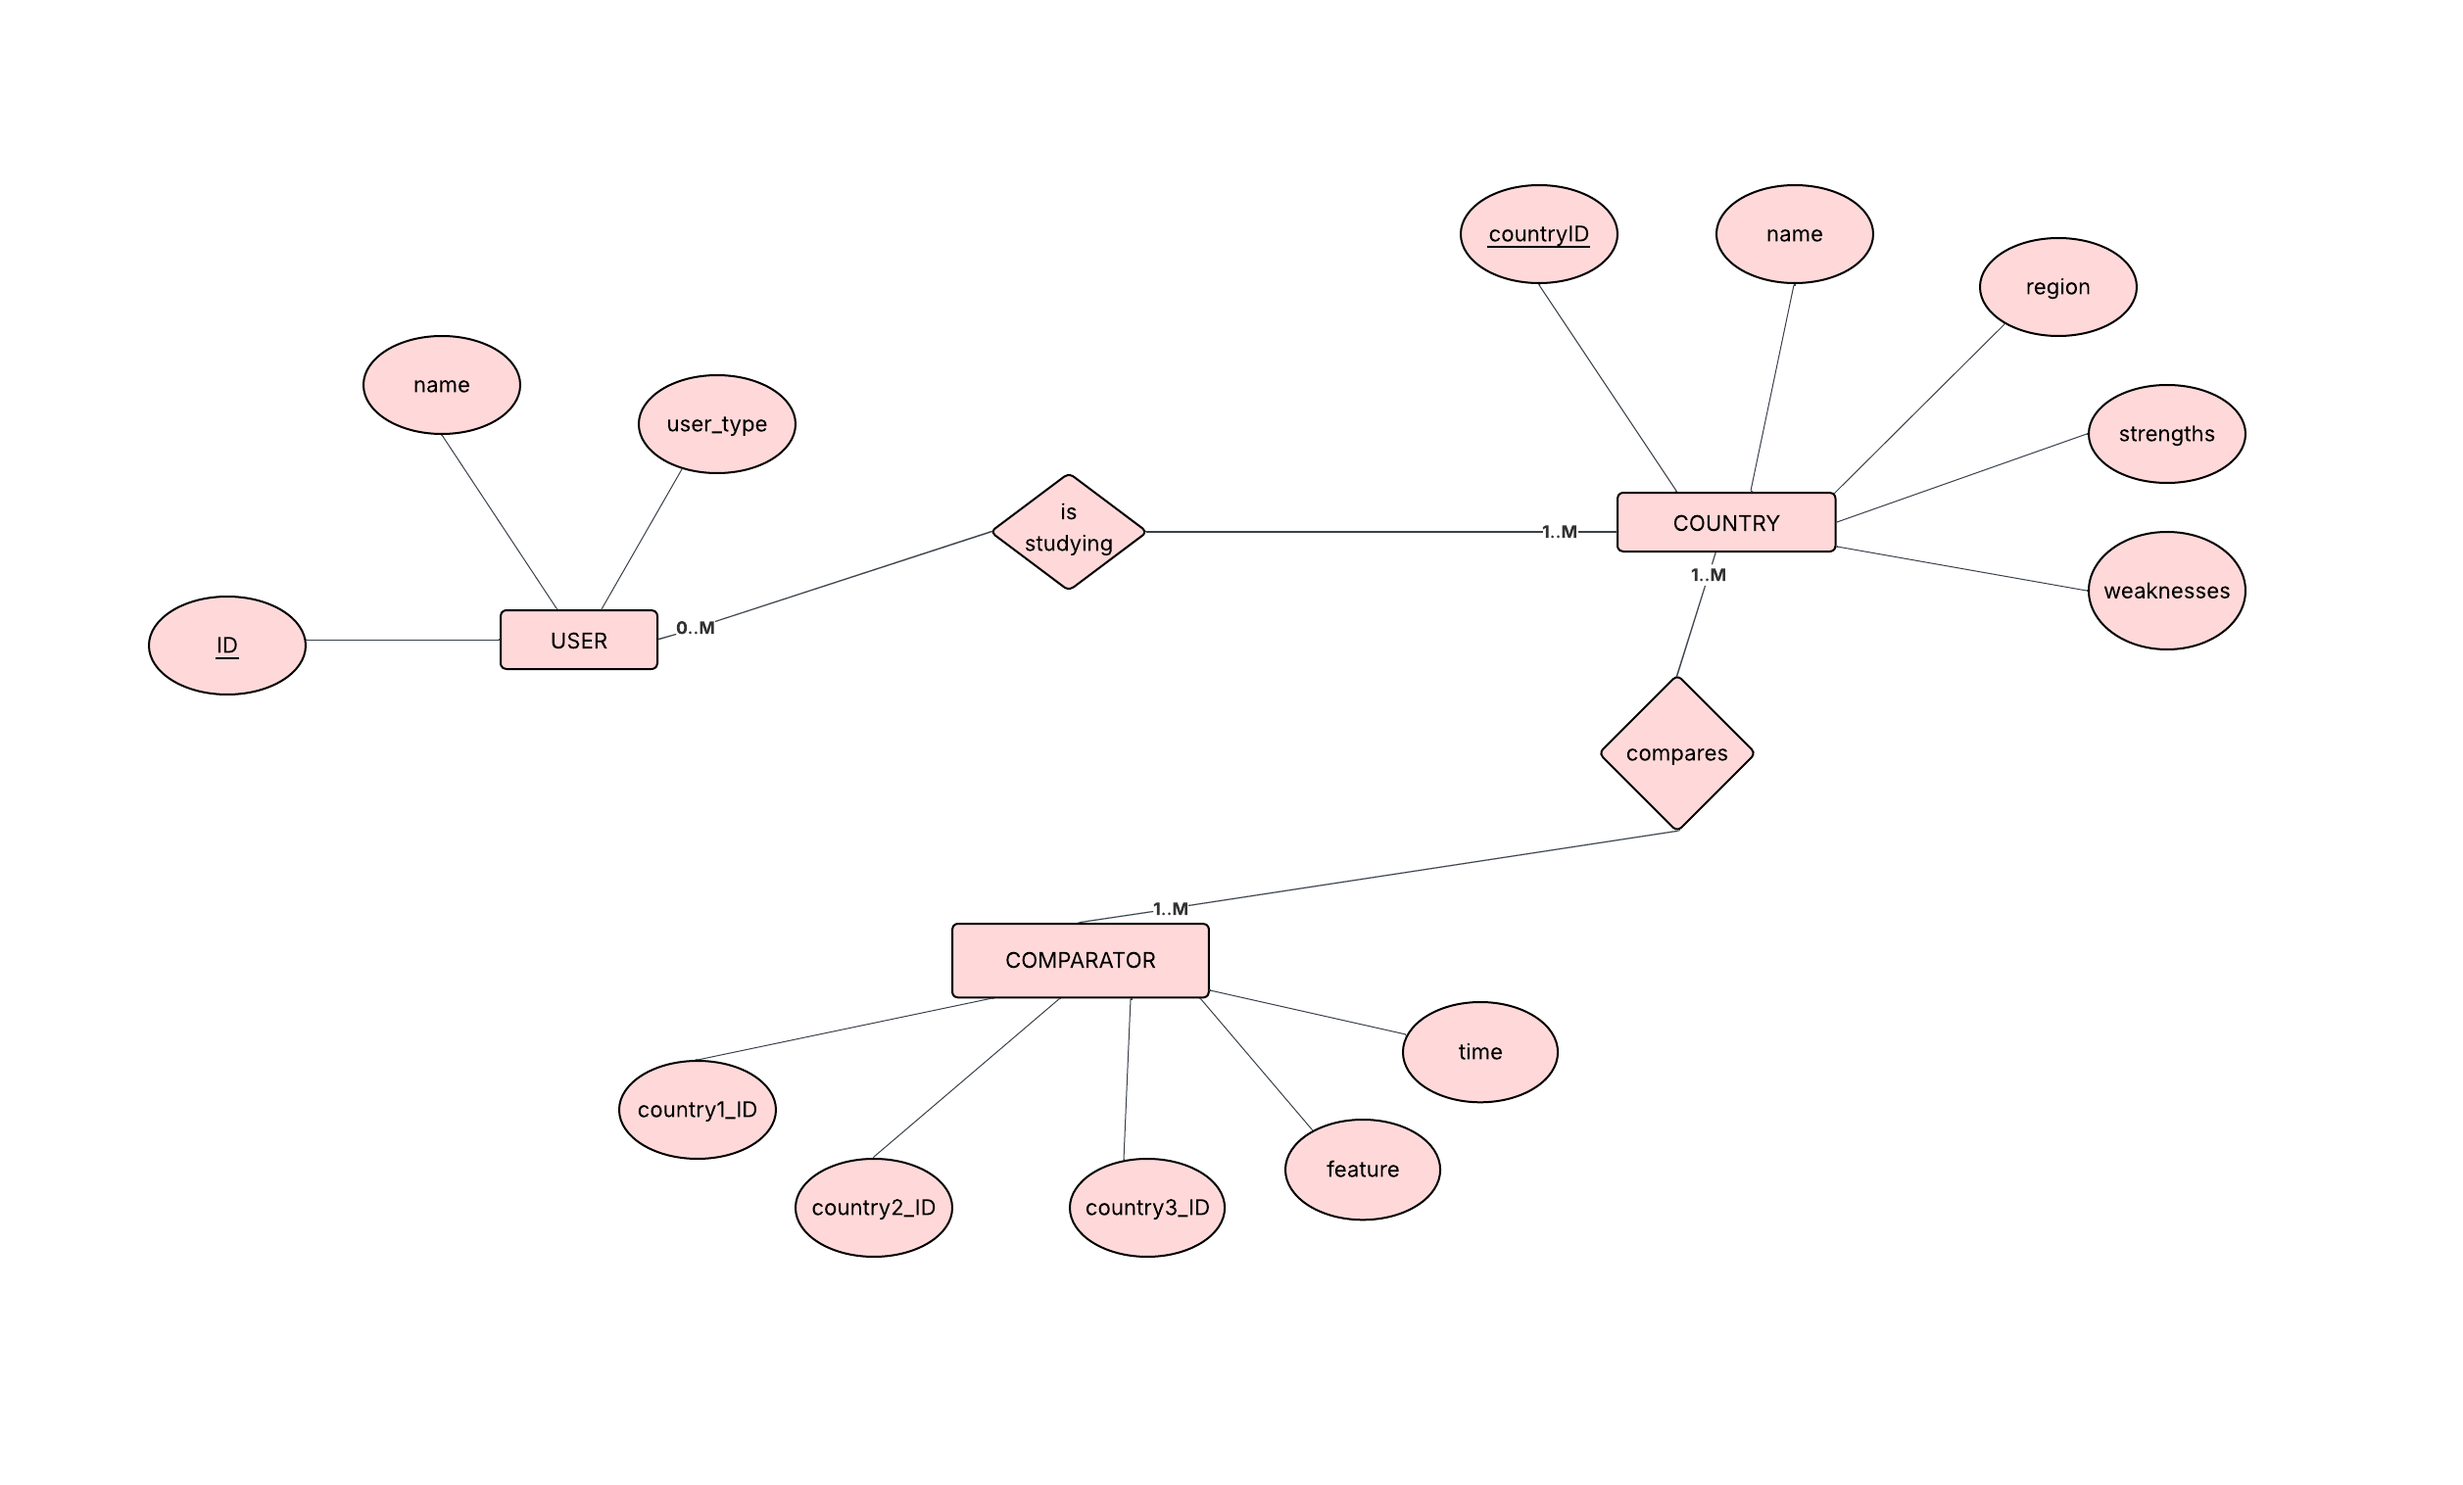
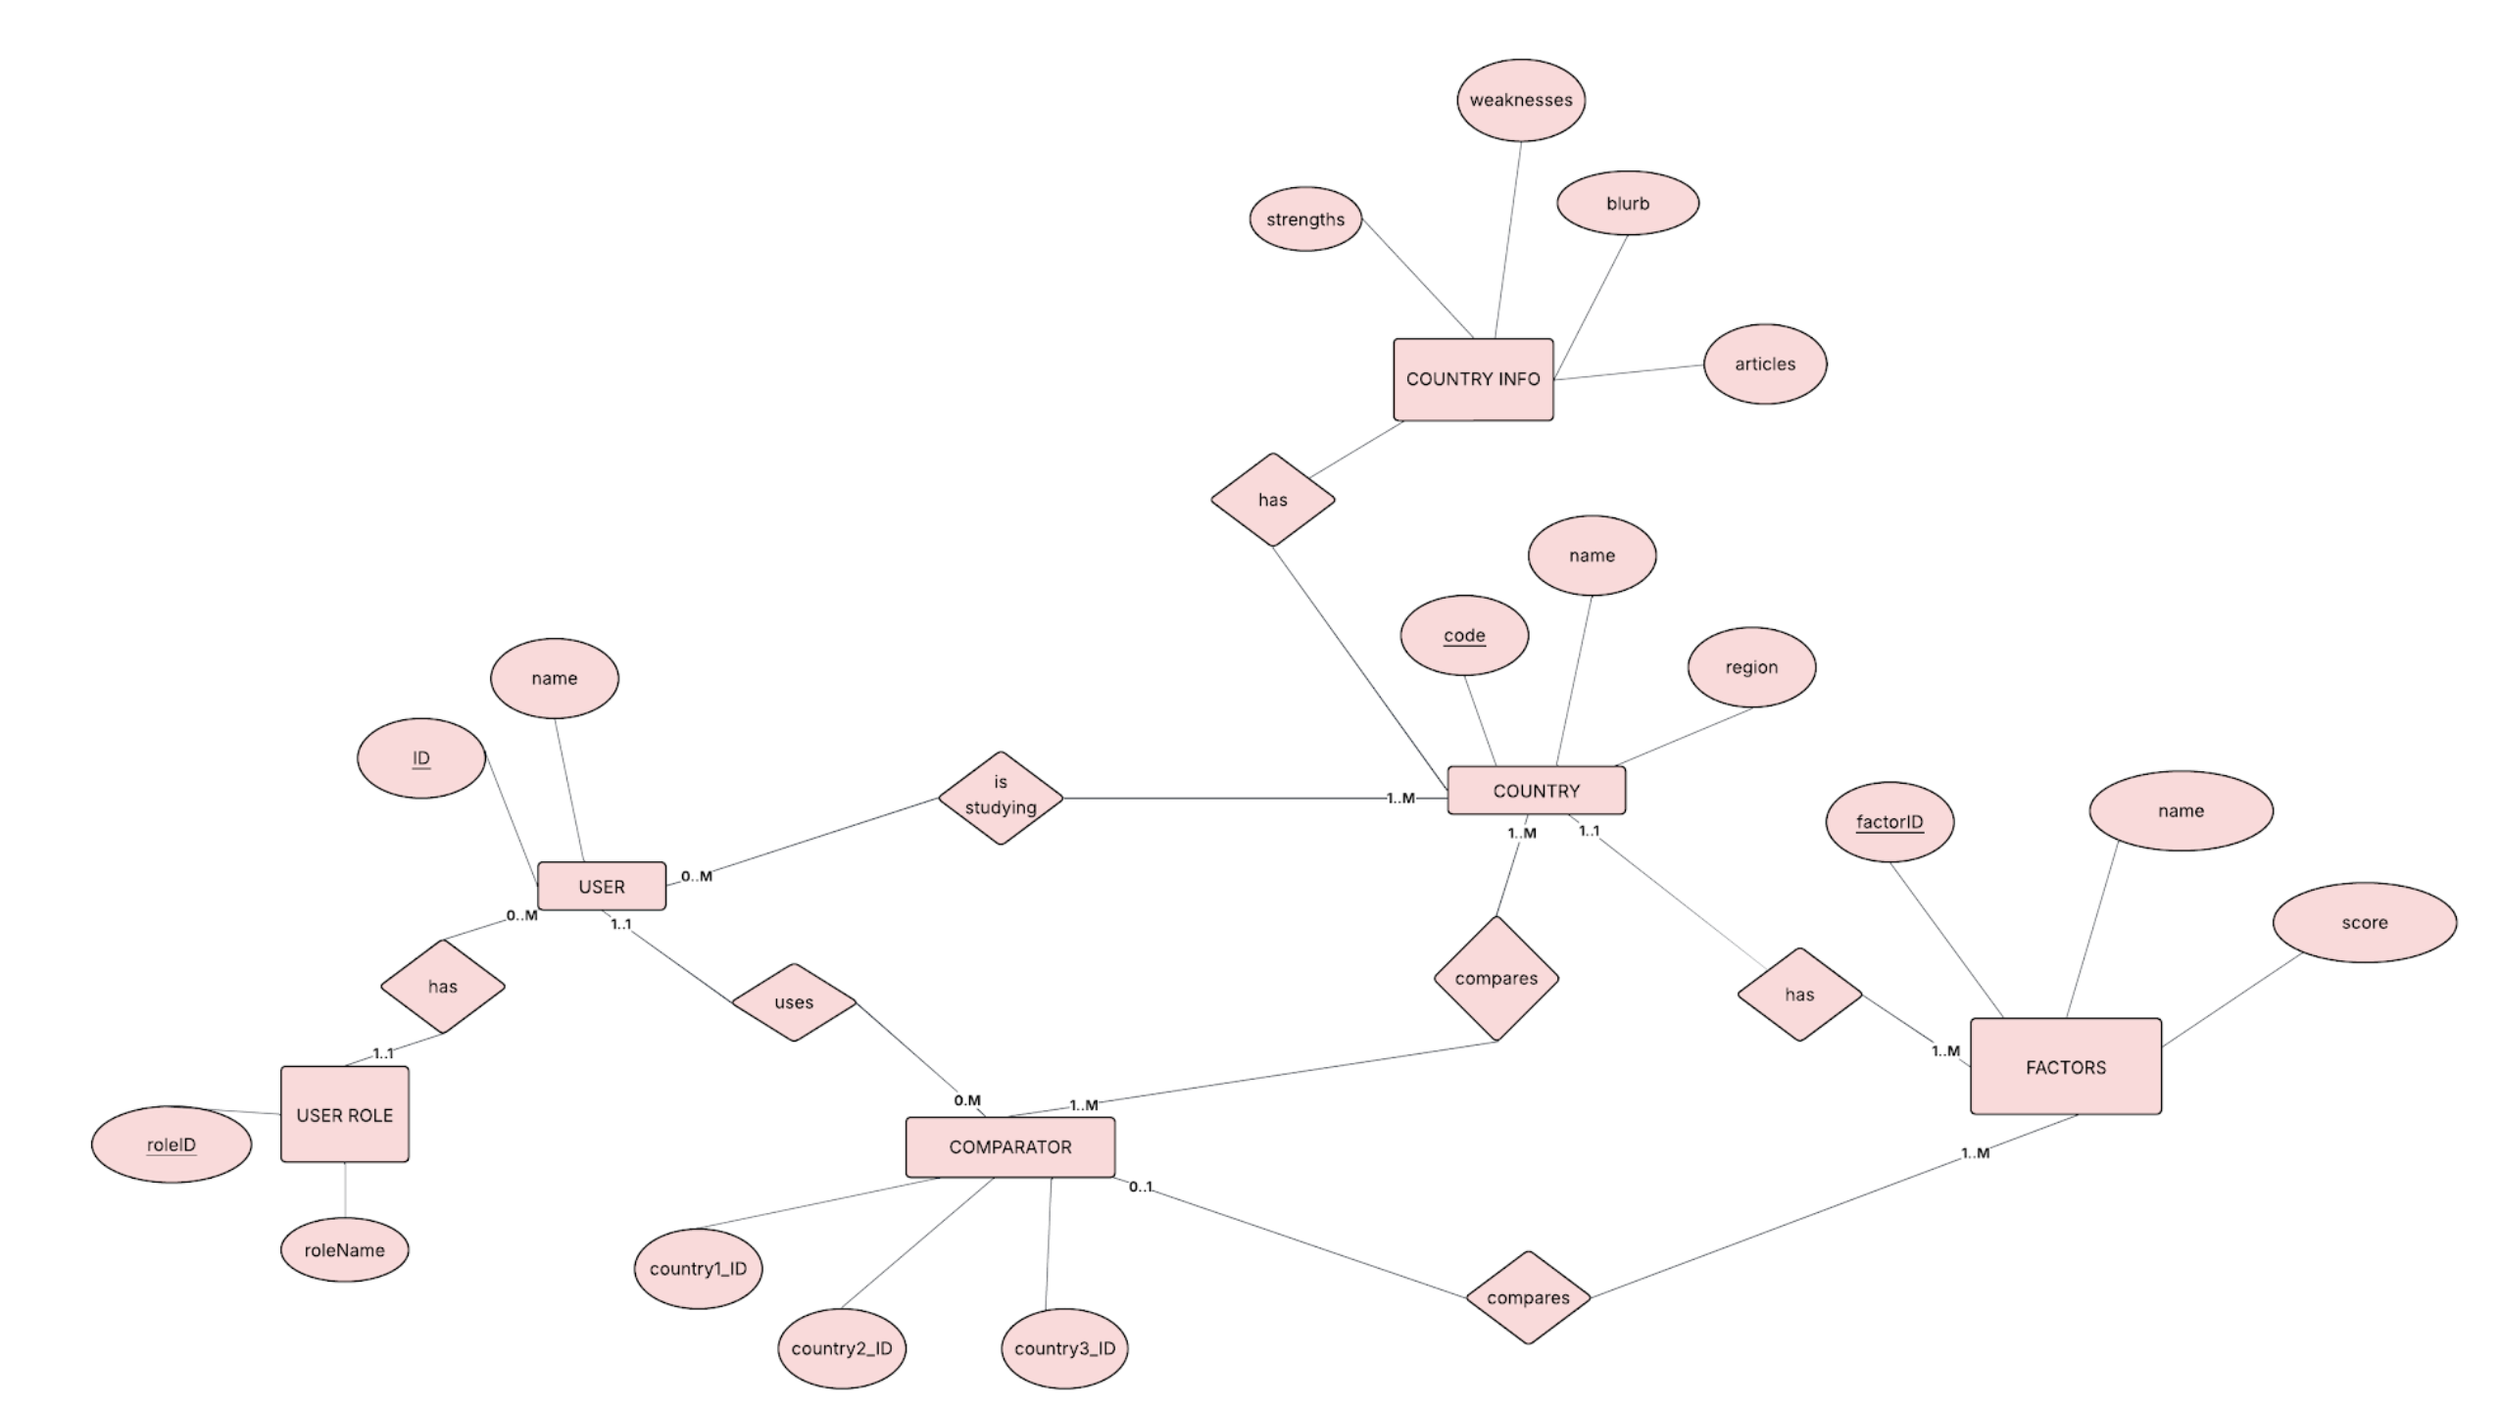
team blog 3 and katherineahn blog3

diff --git a/content/team_posts/phase2blog.md b/content/team_posts/phase2blog.md
@@ -76,37 +76,62 @@ The relational diagram was further derived as:
 Based on our global data model, a first pass of our SQL DDL can be seen below.
 
 <pre> 
-DROP DATABASE IF EXISTS carecompass_database;
-CREATE DATABASE carecompass_database;
-USE carecompass_database;
+DROP DATABASE IF EXISTS cc_database;
+CREATE DATABASE cc_database;
+USE cc_database;
 
 -- create country table
-DROP TABLE IF EXISTS country;
-CREATE TABLE country
+DROP TABLE IF EXISTS Countries;
+CREATE TABLE Countries
 (
-    id   INT PRIMARY KEY,
-    name        VARCHAR(50),
-    region      VARCHAR(50),
+    code    VARCHAR(50) PRIMARY KEY
+    region  VARCHAR(50),
+    name    VARCHAR(50),
+);
+
+
+DROP TABLE IF EXISTS CountryInfo;
+CREATE TABLE CountryInfo
+(
+    countryCode VARCHAR(50),
     strengths   VARCHAR(50),
     weaknesses  VARCHAR(50),
     score       FLOAT,
     info        VARCHAR(50),
-    time        DATETIME
-);
+    FOREIGN KEY (countryCode) REFERENCES Countries(code),
+    FOREIGN KEY (score) REFERENCES OverallScore(overall_score)
+)
+
+
+DROP TABLE IF EXISTS UserRoles;
+CREATE TABLE UserROles;
+(
+    roleID INT PRIMARY KEY,
+    roleName VARCHAR(50),
+)
 
 -- create users table
-DROP TABLE IF EXISTS users;
-CREATE TABLE users
+DROP TABLE IF EXISTS Users;
+CREATE TABLE Users
 (
     id               INT PRIMARY KEY,
     name             VARCHAR(50),
-    userType         VARCHAR(50),
-    qualityWeight    FLOAT,
-    accessibilityWeight FLOAT,
-    affordabilityWeight FLOAT,
-    outcomeWeight       FLOAT,
-    countryID       INT,
-    FOREIGN KEY (countryID) REFERENCES country (id)
+    roleID      INT,
+    country VARCHAR(50),
+    FOREIGN KEY (country) REFERENCES Countries (code).
+    FOREIGN KEY (roleID) REFERENCES UserRoles(roleID)
+);
+
+
+-- create factors table
+DROP TABLE IF EXISTS Factors;
+CREATE TABLE Factors
+(
+    factorID    INT PRIMARY KEY,
+    name        VARCHAR(50),
+    score       FLOAT,
+    
+    FOREIGN KEY (score) REFERENCES OverallScore(overall_score),
 );
 
 -- create score projection table
@@ -115,34 +140,8 @@ CREATE TABLE score_project
 (
     time    DATETIME,
     targetScore     FLOAT primary key
-);
-
-
--- create overall score table
-DROP TABLE IF EXISTS overall_score;
-CREATE TABLE overall_score
-(
-    overallScore FLOAT PRIMARY KEY,
-    qualityScore FLOAT,
-    accessibilityScore FLOAT,
-    affordabilityScore FLOAT,
-    outcomeScore FLOAT
-);
-
--- create factors table
-DROP TABLE IF EXISTS factors;
-CREATE TABLE factors
-(
-    factorID    INT PRIMARY KEY,
-    name        VARCHAR(50),
-    score       FLOAT,
-    weight      FLOAT,
-    countryID   INT,
-    overallScore   FLOAT,
-    targetScore     FLOAT,
-    FOREIGN KEY (countryID) REFERENCES country(id),
-    FOREIGN KEY (overallScore) REFERENCES overall_score(overallScore),
-    FOREIGN KEY (targetScore) REFERENCES score_project(targetScore)
+    factorID        INT,
+    FOREIGN KEY (factorID) REFERENCES Factors(factorID)
 );
 
 
@@ -150,35 +149,73 @@ CREATE TABLE factors
 DROP TABLE IF EXISTS comparator;
 CREATE TABLE comparator
 (
-    country1ID  INT,
-    country2ID  INT,
-    country3ID INT,
-    FOREIGN KEY (country1ID) REFERENCES country(id),
-    FOREIGN KEY (country2ID) REFERENCES country(id),
-    FOREIGN KEY (country3ID) REFERENCES country(id)
+    id INT PRIMARY KEY,
+    country1  VARCHAR(50),
+    country2  VARCHAR(50),
+    country3 VARCHAR(50),
+    FOREIGN KEY (country1) REFERENCES Countries(code),
+    FOREIGN KEY (country2) REFERENCES Countries(code),
+    FOREIGN KEY (country3) REFERENCES Countries(code)
 );
 
--- create country_compare table
-DROP TABLE IF EXISTS country_compare;
-CREATE TABLE country_compare
+
+
+
+DROP TABLE IF EXISTS regression_weights;
+CREATE TABLE regression_weights
 (
-    countryID   INT,
-    Country1_ID   INT,
-    Country2_ID    INT,
-    Country3_ID   INT,
-    FOREIGN KEY (countryID) REFERENCES country(id)
+    id INT AUTO_INCREMENT PRIMARY KEY,
+    country INT,
+    slope FLOAT,
+    intercept FLOAT,
+    mse FLOAT,
+    r2 FLOAT,
+    factorID INT,
+    userID INT,
 
-);
+    FOREIGN KEY (userID) REFERENCES Users(id),
+    FOREIGN KEY (country) REFERENCES Countries(code),
+    FOREIGN KEY (feature) REFERENCES Factors(factorID)
+)
 
--- create user_score table
-DROP TABLE IF EXISTS user_score;
-CREATE TABLE user_score
+DROP TABLE IF EXISTS cosine_weights;
+CREATE TABLE cosine_weights
 (
-    userID   INT,
-    overallScore    FLOAT,
-    FOREIGN KEY (userID) REFERENCES users(id),
-    FOREIGN KEY (overallScore) REFERENCES overall_score(overallScore)
+    id INT AUTO_INCREMENT PRIMARY KEY,
+    preventionWeight FLOAT,
+    healthSysWeight FLOAT,
+    rapidRespWeight FLOAT,
+    intlNormsWeight FLOAT,
+    riskEnvWeight FLOAT,
+    detectReportWeight FLOAT,
+    country INT,
+    userID INT,
+
+    FOREIGN KEY (userID) REFERENCES Users(id),
+    FOREIGN KEY (country) REFERENCES Countries(code)
+)
+
+DROP TABLE IF EXISTS regression_model_params;
+CREATE TABLE regression_model_params
+(
+    year INT,
+    expenditure FLOAT,
+    country VARCHAR(50),
+    FOREIGN KEY (country) REFERENCES country(name)
+)
+
+DROP TABLE IF EXISTS train_test;
+CREATE TABLE train_test
+(
+    id INT AUTO_INCREMENT PRIMARY KEY,
+    train_x INT,
+    test_x INT,
+    train_y INT,
+    test_y INT,
+    country INT,
+    FOREIGN KEY (country) REFERENCES Countries(code)
 );
+
  </pre>
 
  # WireFrames:

diff --git a/content/team_posts/phase3blog.md b/content/team_posts/phase3blog.md
@@ -12,6 +12,52 @@ authors:
   - "shivenajwaliya"
 showAuthorsBadges: false
 ---
+# Project Updates  
+Following the submission of Phase II, our group continued working on refining our data models and first ML model, as well as our second ML model. Further, on the back-end side of things, we worked to develop a REST API for our project. Finally, on the front-end, we built an initial structure for the majority of the pages of our app.
+
+# Data Models 
+After receiving feedback on our data models, and continuing to clarify the operations of our app, we were able to edit our data models, along with their corresponding diagrams. Thinking deeper into what data should be stored and why, we created user and user role entities, as well as edited the attributes attached to align more with our machine learning models (this required creating a new entity for each ML model). Additionally, we implemented the areas of which the machine learning data will be stored, including the various features over time. The ER diagrams, relational diagram, and DDL were updated in [blog post 2](https://arthur-t-huang.github.io/Care-Compass-Blog/team_posts/phase2post/#er-diagrams-relational-diagram-sql-ddl). We currently have the following tables in our SQL:
+
+- Country - Holds basic country metadata
+- CountryInfo - Weak entity to Country, stores qualitative country data
+- OverallScore - Holds score for each major factor (1-6) for a particular country (FK)
+- Users - Holds basic user metadata
+- Factors - Holds factorID for identification of each of the 6 major factors, as well as their scores
+- Comparator - Enables country to country comparisons
+- UserScore - Acts as a bridge table connecting Users to OverallScore for a country
+- regression_weights - ML model to hold calculated weights for regression (i.e. slope, intercept, mse, r^2)
+- cosine_similarity - ML model table to hold the provided weights by the users 
+- train_test - ML model table to hold train and test data for regression model, depending on country
+
+
+Additionally, our current data – for drafting purposes – includes some randomly generated data, however, our final application data will be sourced from our various datasets (mainly from WHO and the GHS Index). 
+
+# Machine Learning Models
+In Phase II, we began to explore a linear regression machine learning model for the student and policymaker personas. For the linear regression machine learning model, we utilize the following features: 
+Live births per 1000
+Infant mortality rate 
+General practitioners per 10,000
+Life expectancy in years
+Total health expenditure 
+Number of impoverished households after out of pocket healthcare payments
+We completed designing our predictive model for the total health expenditure dataset. The training and prediction model results are now visible on the frontend. 
+
+Further, we began working on our second machine learning model, the personalized country matching for future residents. The purpose of this model was to match users’ healthcare priorities with the countries that align most closely along key health system factors. This cosine similarity model is based off of the healthcare scores and subcategories from the GHS index. This model is complete, we simply need to account for the weights with simple math operations for multiplying each individual subcategory. The model is able to use input data to query, so we simply need to display the data in a more user-friendly format. 
+
+# REST API
+In regards to developing our REST API, we created various routes so as to connect our web app to our models and database. Some of these include GET, PUT, POST, and DELETE routes for countries, as well as routes especially for our machine learning models. 
+
+
+Below is a matrix of our thus far created REST APIs
+... insert image ...
+
+Finally, we built out an initial structure for most of our front end pages, as well as personalized  our web page colors and font. 
+
+Putting all this together, the primary focus of our group was to get our linear regression model up and running on the Students’ Country Comparator page. 
+
+
+
+
 
 
 

diff --git a/content/KatherineAhn/BlogPost3.md b/content/KatherineAhn/BlogPost3.md
@@ -1,0 +1,16 @@
+---
+title: KA - Blog Post III
+date: 2025-06-05
+draft: false
+description: "Phase III Updates"
+slug: "blog3"   # if you use, needs to be different for every post
+tags: ["authors", "config", "docs"]
+authors:
+  - "katherineahn"
+showAuthorsBadges : false
+---
+
+For Phase III, I primarily worked to create and implement the front end pages of our web application, ensuring navigation to different pages was working. Supplemental to that, I translated the ideas of our wireframe onto our web pages so they reflect our designs. I created the Home page, each of the Persona Home pages, the Customize Your Move page for Archibald the relocating resident, the Country Comparator page for Gale the global health student, and finally for Nancy the policymaker – the Features Over Time and Target Scores pages. Further, I personalized our website to look more unique: changing the colors, backdrop, and font. In addition to this, I worked on a couple of routes in the REST API – in particular, the get_all_countries(), as well as the routes for our first machine learning model, the linear regression. While running tests to ensure the functionality of our routes, this was a challenge to say the least. I implemented defined functions to work with the routes; for example, the store_weights route I wrote works to add regression weights from the model to the database through a POST route. On the other hand, the predict_feature_over_time worked to generate a regression prediction for a given feature for a country. This was a GET route, which acted as a bridge between the database and front-end page. As well as this, I organized and completed the API matrix for submission. Finally, I contributed to writing the team blog post and editing our data models from Phase II to satisfy the feedback given earlier; this also included editing our ER diagram, relational database, and SQL DDL. 
+
+The past week since Phase II’s due date was especially enjoyable as our program went to Luxembourg for the weekend. Though a small country, this proved advantageous since we were there for only a short time. I enjoyed going out to eat with my professors, exploring the streets and valleys at night with friends, and going up the LOOK 360° Panorama to see Luxembourg City from spectacular heights! 
+ 
